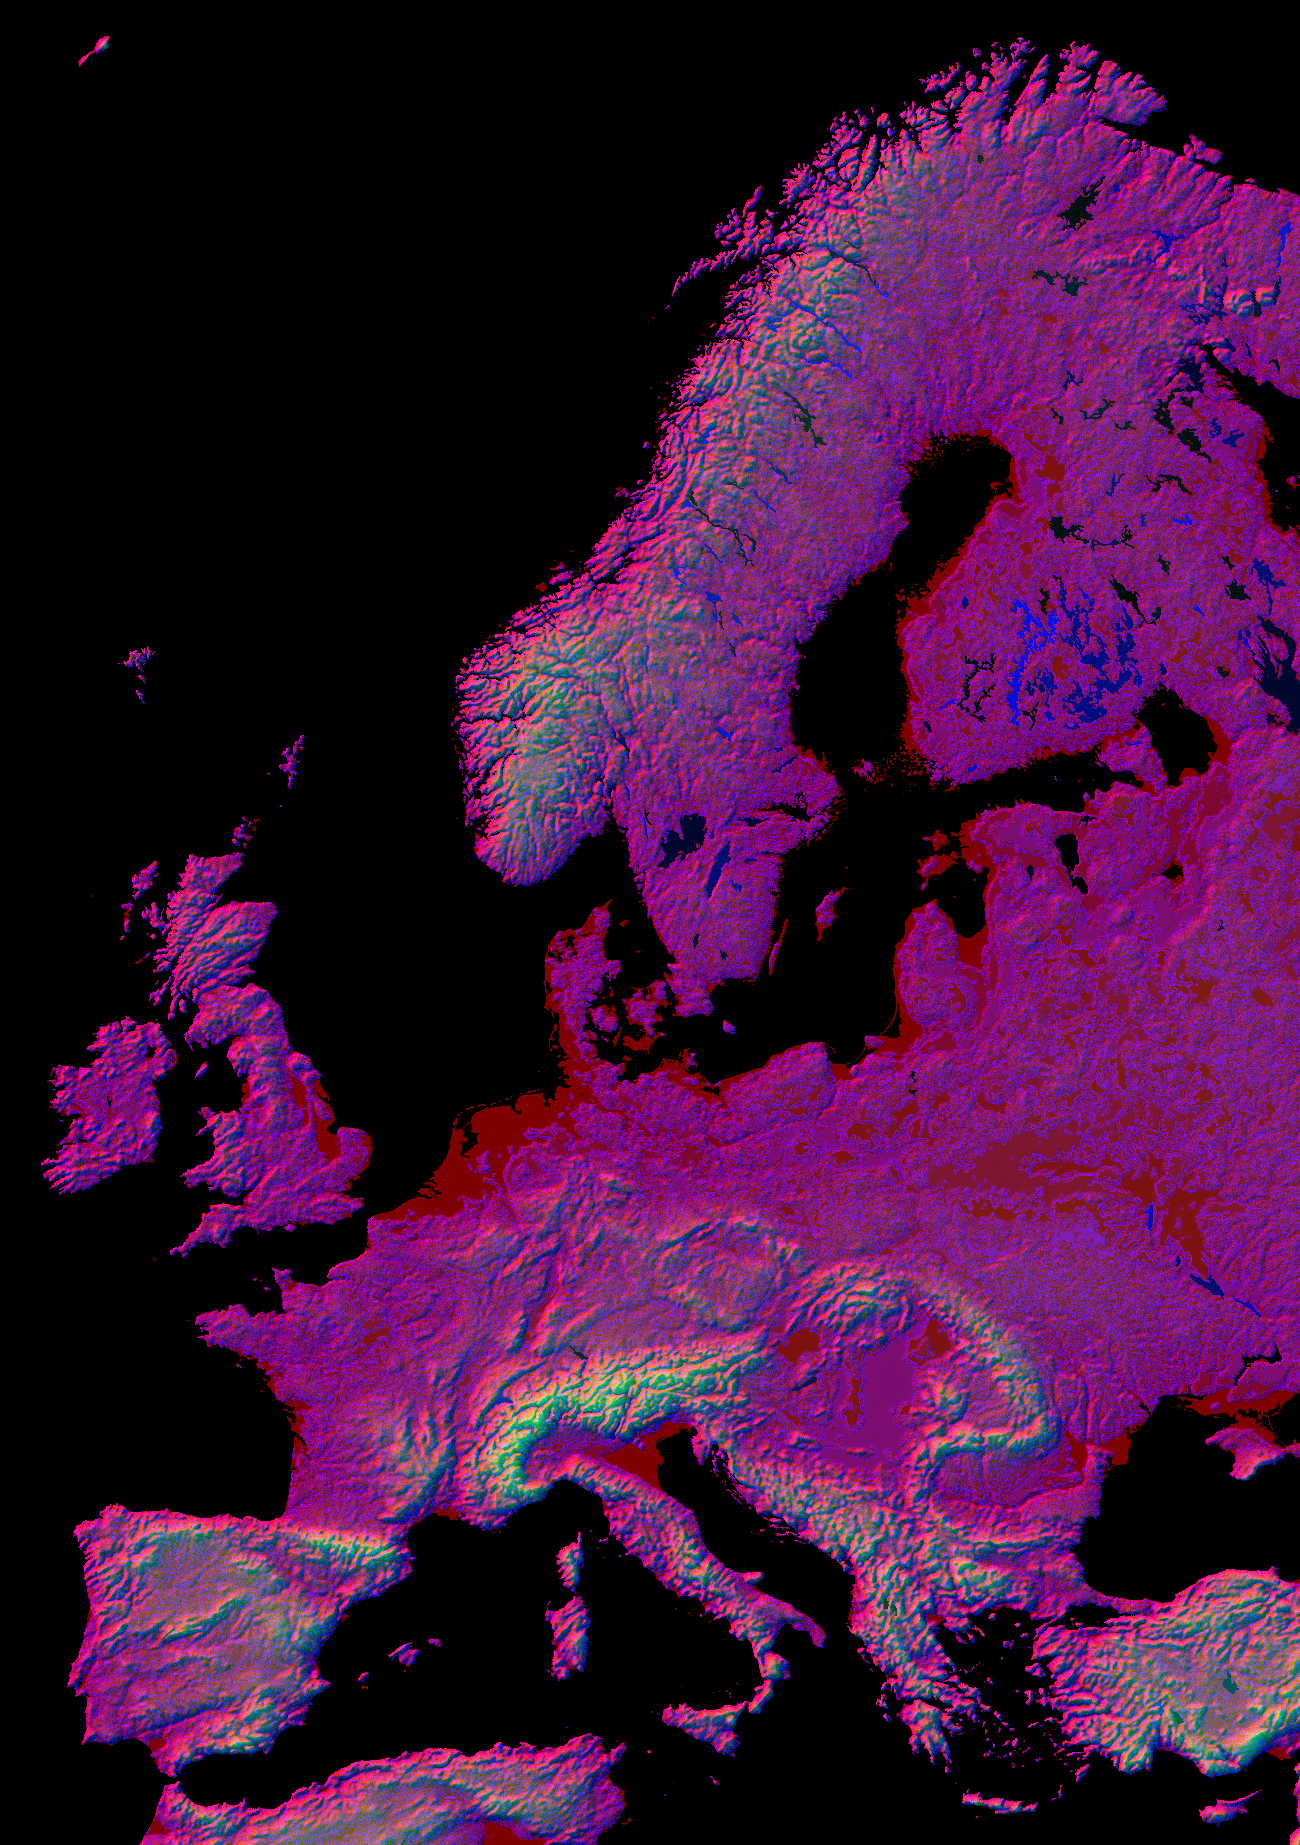
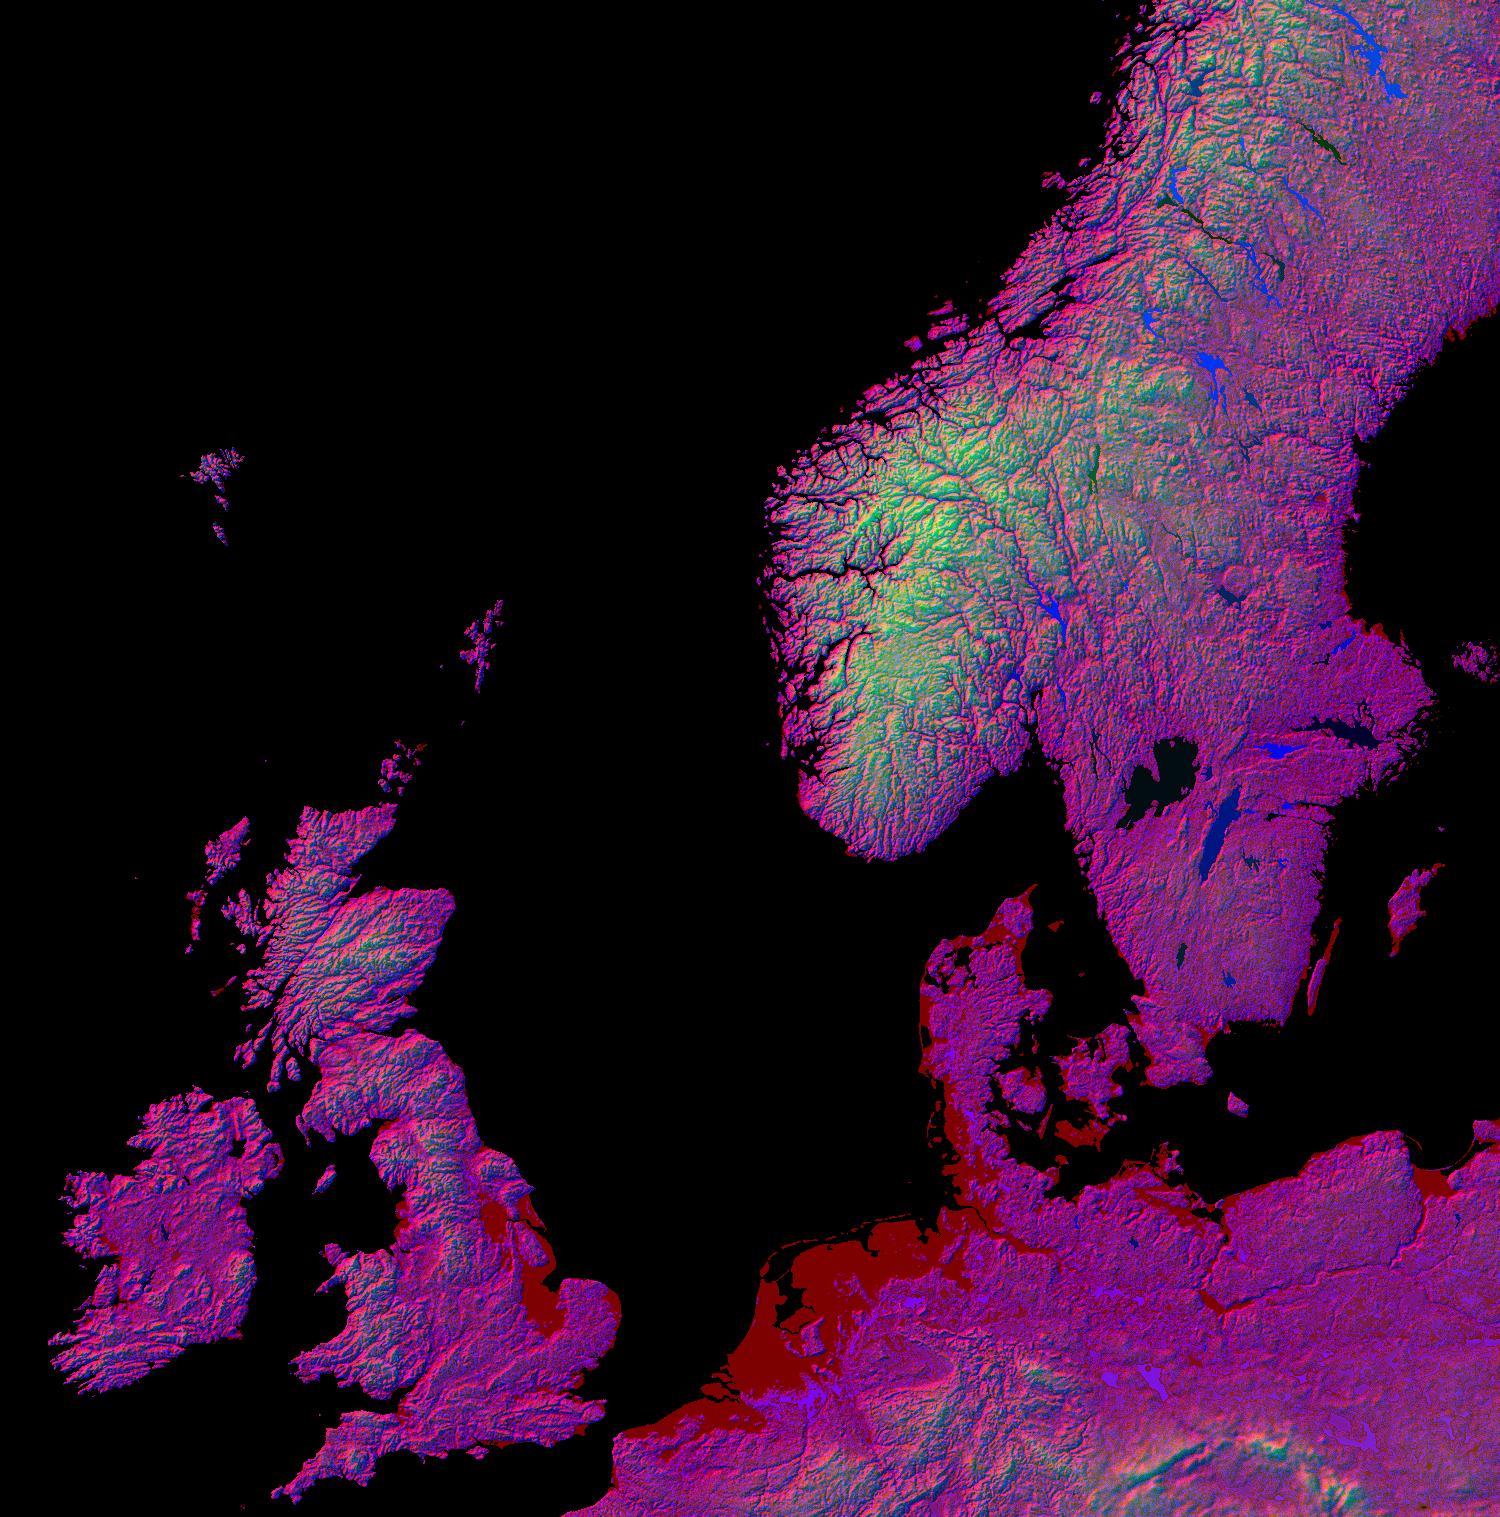
Listening Shrines: overview from Ireland to Sweden with finer relief
- overview cropped to north-west Europe (no Alps) and rebuilt from
  3-arc-second elevation data (de Ferranti / viewfinderpanoramas, via
  jaanga/terrain-de3), averaged down so fjords and ridges stay crisp
- recordings of one area share a marker that opens a short list
  (Ostfriesland · 4)
- slower, gentler descent into a shrine

Claude-Session: https://claude.ai/code/session_01AUtrK7ZNP4Cu7jf2w99u8u

diff --git a/assets/shrines.js b/assets/shrines.js
@@ -3,8 +3,8 @@ import { OrbitControls } from "three/addons/controls/OrbitControls.js";
 import { SHRINES } from "./shrines-data.js";
 
 /* ───────────── constants ───────────── */
-// Overview: Europe in Web Mercator (zoom-6 tile coordinates of the image corners).
-const EU = { world: 440, relief: 20, x0: 29.866666666666667, x1: 38.4, y0: 13.457790841581378, y1: 25.565983223523137 };
+// Overview: north-west Europe, Ireland to Sweden, in Web Mercator (zoom-7 tile coordinates of the image corners).
+const EU = { world: 440, relief: 15, n: 128, x0: 59.91111111111111, x1: 71.28888888888889, y0: 32.011827186209985, y1: 43.520931152007336, hmax: 2500, gamma: 0.72 };
 // Detail: the ground around one recording, built from one LIDAR scan.
 const DETAIL = { world: 240, relief: 16 };
 let WORLD = EU.world, DEPTH = EU.world;   // extent of the terrain currently shown
@@ -24,7 +24,7 @@ stage.appendChild(renderer.domElement);
 
 const scene = new THREE.Scene();
 const camera = new THREE.PerspectiveCamera(48, 1, 0.5, 2000);
-camera.position.set(0, innerWidth < 720 ? 1000 : 430, innerWidth < 720 ? 1150 : 520);
+camera.position.set(0, innerWidth < 720 ? 900 : 300, innerWidth < 720 ? 780 : 400);
 
 const controls = new OrbitControls(camera, renderer.domElement);
 controls.enableDamping = true;
@@ -201,13 +201,13 @@ function useView(c) {
 
 // latitude / longitude ↔ position on the overview
 const geoToWorld = (lat, lon) => {
-  const tx = (lon + 180) / 360 * 64;
-  const ty = (1 - Math.asinh(Math.tan(lat * Math.PI / 180)) / Math.PI) / 2 * 64;
+  const tx = (lon + 180) / 360 * EU.n;
+  const ty = (1 - Math.asinh(Math.tan(lat * Math.PI / 180)) / Math.PI) / 2 * EU.n;
   return [((tx - EU.x0) / (EU.x1 - EU.x0) - 0.5) * eu.W, ((ty - EU.y0) / (EU.y1 - EU.y0) - 0.5) * eu.D];
 };
 const worldToLonLat = (x, z) => {
   const tx = EU.x0 + (x / eu.W + 0.5) * (EU.x1 - EU.x0), ty = EU.y0 + (z / eu.D + 0.5) * (EU.y1 - EU.y0);
-  return [tx / 64 * 360 - 180, Math.atan(Math.sinh(Math.PI * (1 - 2 * ty / 64))) * 180 / Math.PI];
+  return [tx / EU.n * 360 - 180, Math.atan(Math.sinh(Math.PI * (1 - 2 * ty / EU.n))) * 180 / Math.PI];
 };
 
 /* ───────────── shrines ───────────── */
@@ -224,60 +224,90 @@ function ringLine(x, z, r, hAt) {
   return new THREE.Line(new THREE.BufferGeometry().setFromPoints(pts), lineMat);
 }
 
+// Recordings of one area share a marker on the overview; it opens a short list.
+const markers = [];   // { el, top }
+const detMark = document.createElement("div");
+detMark.className = "shrine active off";
+detMark.innerHTML = `<span class="shrine-mark" aria-hidden="true"></span><span class="shrine-label"></span>`;
+
 function buildShrines() {
   const list = $("#index-list");
   const bases = SHRINES.map((s) => {
     const [x, z] = geoToWorld(s.geo[0], s.geo[1]);
     return new THREE.Vector3(x, eu.heightAt(x, z), z);
   });
-  const tops = bases.map((b) => b.clone().setY(b.y + 16));
-  // recordings that lie close together on the scale of Europe: fan their markers out
-  const done = new Set();
-  bases.forEach((b, i) => {
-    if (done.has(i)) return;
-    const g = [i];
-    bases.forEach((c, j) => { if (j > i && !done.has(j) && b.distanceTo(c) < 14) g.push(j); });
-    if (g.length < 2) return;
-    const c = new THREE.Vector3();
-    g.forEach((k) => c.add(bases[k]));
-    c.divideScalar(g.length);
-    g.forEach((k, n) => { done.add(k); tops[k].set(c.x + (n - (g.length - 1) / 2) * 12, c.y + 15 + (n % 2) * 9, c.z); });
-  });
+  const areas = new Map();
+  SHRINES.forEach((s, i) => { const k = s.area || s.id; areas.set(k, [...(areas.get(k) || []), i]); });
 
   SHRINES.forEach((s, idx) => {
-    const base = bases[idx], top = tops[idx];
-    euGroup.add(new THREE.Line(new THREE.BufferGeometry().setFromPoints([base, top]), lineMat));
-    euGroup.add(ringLine(base.x, base.z, 1.6, eu.heightAt));
-
-    const btn = document.createElement("button");
-    btn.className = "shrine";
-    btn.type = "button";
-    btn.innerHTML = `<span class="shrine-mark" aria-hidden="true"></span><span class="shrine-label"><b>${s.id}</b> ${s.name}</span>`;
-    btn.setAttribute("aria-label", `${s.id} ${s.name}, open shrine`);
-    btn.addEventListener("click", () => openShrine(idx));
-    shrineLayer.appendChild(btn);
-
     const li = document.createElement("li");
     li.innerHTML = `<button type="button"><span>${s.id}</span>${s.name}</button>`;
     li.querySelector("button").addEventListener("click", () => openShrine(idx));
     list.appendChild(li);
-
-    shrineObjs.push({ s, top, base, btn, li });
+    shrineObjs.push({ s, base: bases[idx], li, el: null });
   });
+
+  for (const [area, members] of areas) {
+    const base = new THREE.Vector3();
+    members.forEach((i) => base.add(bases[i]));
+    base.divideScalar(members.length);
+    base.y = eu.heightAt(base.x, base.z);
+    const top = base.clone().setY(base.y + 16);
+    euGroup.add(new THREE.Line(new THREE.BufferGeometry().setFromPoints([base, top]), lineMat));
+    euGroup.add(ringLine(base.x, base.z, members.length > 1 ? 2.6 : 1.6, eu.heightAt));
+
+    const el = document.createElement("div");
+    el.className = "shrine";
+    if (members.length === 1) {
+      const s = SHRINES[members[0]];
+      el.innerHTML = `<button type="button" class="shrine-btn" aria-label="${s.id} ${s.name}, open shrine"><span class="shrine-mark" aria-hidden="true"></span><span class="shrine-label"><b>${s.id}</b> ${s.name}</span></button>`;
+      el.querySelector("button").addEventListener("click", () => openShrine(members[0]));
+    } else {
+      el.classList.add("cluster");
+      el.innerHTML = `<button type="button" class="shrine-btn" aria-expanded="false" aria-label="${area}, ${members.length} shrines"><span class="shrine-mark" aria-hidden="true"></span><span class="shrine-label"><b>${area}</b> · ${members.length}</span></button><ul class="cluster-list"></ul>`;
+      const head = el.querySelector(".shrine-btn"), ul = el.querySelector("ul");
+      head.addEventListener("click", () => { const open = el.classList.toggle("open"); head.setAttribute("aria-expanded", open); });
+      members.forEach((i) => {
+        const s = SHRINES[i], item = document.createElement("li");
+        item.innerHTML = `<button type="button"><span>${s.id}</span>${s.name}</button>`;
+        item.querySelector("button").addEventListener("click", () => openShrine(i));
+        ul.appendChild(item);
+      });
+    }
+    shrineLayer.appendChild(el);
+    markers.push({ el, top });
+    members.forEach((i) => { shrineObjs[i].el = el; shrineObjs[i].base = base; });
+  }
+  shrineLayer.appendChild(detMark);
+  addEventListener("pointerdown", (e) => { for (const m of markers) if (!m.el.contains(e.target)) closeCluster(m.el); });
+}
+function closeCluster(el) {
+  if (!el.classList.contains("open")) return;
+  el.classList.remove("open");
+  el.querySelector(".shrine-btn").setAttribute("aria-expanded", "false");
+}
+function markActive(idx) {
+  for (const m of markers) m.el.classList.toggle("active", idx >= 0 && shrineObjs[idx].el === m.el);
+  shrineObjs.forEach((x, i) => x.li.classList.toggle("active", i === idx));
 }
 
 const tmp = new THREE.Vector3();
-function placeLabels() {
+function place(el, p, far) {
   const w = renderer.domElement.clientWidth, h = renderer.domElement.clientHeight;
-  shrineObjs.forEach((o, i) => {
-    const p = mode === "detail" ? (i === detIdx ? detTop : null) : o.top;
-    if (!p) { o.btn.classList.add("off"); return; }
-    tmp.copy(p).project(camera);
-    const vis = tmp.z < 1 && Math.abs(tmp.x) < 1.1 && Math.abs(tmp.y) < 1.1;
-    o.btn.style.transform = `translate(${((tmp.x + 1) / 2) * w}px, ${((1 - tmp.y) / 2) * h}px)`;
-    o.btn.classList.toggle("off", !vis);
-    o.btn.classList.toggle("far", mode === "europe" && camera.position.distanceTo(p) > 330);
-  });
+  tmp.copy(p).project(camera);
+  const vis = tmp.z < 1 && Math.abs(tmp.x) < 1.1 && Math.abs(tmp.y) < 1.1;
+  el.style.transform = `translate(${((tmp.x + 1) / 2) * w}px, ${((1 - tmp.y) / 2) * h}px)`;
+  el.classList.toggle("off", !vis);
+  el.classList.toggle("far", far);
+}
+function placeLabels() {
+  if (mode === "detail") {
+    for (const m of markers) m.el.classList.add("off");
+    if (detTop) place(detMark, detTop, false);
+    return;
+  }
+  detMark.classList.add("off");
+  for (const m of markers) place(m.el, m.top, false);
 }
 
 /* ───────────── camera flights ───────────── */
@@ -335,7 +365,7 @@ function showEurope() {
 
 // fade the stage out, run fn while it is dark, fade back in
 function throughDark(fn, delay = 0) {
-  const T = reduceMotion ? 0 : 720;
+  const T = reduceMotion ? 0 : 1150;
   setTimeout(() => {
     fadeEl.classList.add("on");
     setTimeout(() => fn(() => requestAnimationFrame(() => requestAnimationFrame(() => { fadeEl.classList.remove("on"); busy = false; }))), T);
@@ -352,7 +382,9 @@ function openShrine(idx) {
   const o = shrineObjs[idx];
   const s = o.s;
   current = idx; busy = true;
-  shrineObjs.forEach((x, i) => { x.btn.classList.toggle("active", i === idx); x.li.classList.toggle("active", i === idx); });
+  markActive(idx);
+  for (const m of markers) closeCluster(m.el);
+  detMark.querySelector(".shrine-label").innerHTML = `<b>${s.id}</b> ${s.name}`;
 
   // the detail terrain loads while the camera descends over Europe
   const img = new Image();
@@ -361,8 +393,8 @@ function openShrine(idx) {
   let delay = 0;
   if (mode === "europe") {
     euCam = { p: camera.position.clone(), t: controls.target.clone() };
-    flyTo(o.base, 46, 0.85, 2400);
-    delay = 1500;
+    flyTo(o.base, 46, 0.85, 3400);
+    delay = 2100;
   }
   throughDark((done) => ready.then((ok) => {
     if (ok) showDetail(idx, img);
@@ -398,7 +430,7 @@ function closePanel() {
   panel.classList.remove("open");
   document.body.classList.remove("has-panel", "listening");
   setTimeout(() => { if (!panel.classList.contains("open")) panel.hidden = true; }, 500);
-  shrineObjs.forEach((x) => { x.btn.classList.remove("active"); x.li.classList.remove("active"); });
+  markActive(-1);
   current = -1;
   if (mode === "detail") { busy = true; throughDark((done) => { showEurope(); done(); }); }
 }
@@ -690,7 +722,7 @@ function loop() {
     const [lon, lat] = worldToLonLat(t.x, t.z);
     hud.x.textContent = lon.toFixed(2) + "°";
     hud.y.textContent = lat.toFixed(2) + "°";
-    hud.z.textContent = (Math.pow(heightAt(t.x, t.z) / EU.relief, 1 / 0.72) * 4300).toFixed(0);
+    hud.z.textContent = (Math.pow(heightAt(t.x, t.z) / EU.relief, 1 / EU.gamma) * EU.hmax).toFixed(0);
   } else {
     hud.x.textContent = ((t.x + WORLD / 2) * 10).toFixed(0).padStart(4, "0");
     hud.y.textContent = ((DEPTH / 2 - t.z) * 10).toFixed(0).padStart(4, "0");
@@ -712,10 +744,10 @@ addEventListener("keydown", (e) => {
 const enter = $("#enter");
 const img = new Image();
 img.onload = () => {
-  eu = makeCloud(img, { world: EU.world, relief: EU.relief, keepLand: isSmall ? 0.8 : 0.62 });
+  eu = makeCloud(img, { world: EU.world, relief: EU.relief, keepLand: isSmall ? 0.9 : 0.86 });
   euGroup.add(eu.points);
   useView(eu);
-  controls.target.set(0, 0, 30);
+  controls.target.set(0, 0, 24);
   buildShrines();
   resize();
   document.body.classList.add("ready");

diff --git a/assets/shrines-data.js b/assets/shrines-data.js
@@ -1,4 +1,5 @@
 // Shrine catalogue. One entry per recording.
+// area: recordings with the same area share one marker on the overview.
 // geo: [latitude, longitude] of the recording; places the shrine on the overview of Europe.
 // The ground around each shrine is assets/terrain/<id in lower case>.png (e.g. s-01.png), built from a LIDAR scan.
 // Fields marked "~" are estimated from the original blog text; coordinates are approximate.
@@ -16,6 +17,7 @@ export const SHRINES = [
     wind: "calm",
     rig: "Nevaton MC59 omni · AB 55 cm · 90°",
     src: "https://res.cloudinary.com/dainslgf8/video/upload/v1757937528/250801_002_Skedbrosj%C3%B6n_edit_o9juns.mp3",
+    area: "Härjedalen",
     geo: [62.31, 12.38],
     synth: { wind: 0.15, water: 0.9, birds: 0.05, tone: 180 },
     prayer: [
@@ -36,6 +38,7 @@ export const SHRINES = [
     wind: "light breeze",
     rig: "Nevaton MC59 omni · baffled AB 33 cm · 45°",
     src: "https://res.cloudinary.com/dainslgf8/video/upload/v1761931151/250831_005_Stapeler_Moor_sehr_lebendig_Schwalben_Spatzen_Schafe_etc._qzmhnk.mp3",
+    area: "Ostfriesland",
     geo: [53.30, 7.77],
     synth: { wind: 0.5, water: 0.0, birds: 0.8, tone: 900 },
     prayer: [
@@ -56,6 +59,7 @@ export const SHRINES = [
     wind: "calm",
     rig: "Nevaton MC59 omni · baffled AB 35 cm · 90°",
     src: "https://res.cloudinary.com/dainslgf8/video/upload/v1748357450/250518_001_Maik%C3%A4fer_Abend_Reh_am_Teich_bearbeitet_wrnred.mp3",
+    area: "Ostfriesland",
     geo: [53.39, 7.99],
     synth: { wind: 0.1, water: 0.2, birds: 0.1, tone: 140, drone: 0.7 },
     prayer: [
@@ -76,6 +80,7 @@ export const SHRINES = [
     wind: "calm",
     rig: "Nevaton MC59 omni · AB 50 cm",
     src: "https://res.cloudinary.com/dainslgf8/video/upload/v1748213115/250501_003_Stapeler_Moor_Kuckuck_V%C3%B6gel_M%C3%BCckenschwarm_grcfkf.mp3",
+    area: "Ostfriesland",
     geo: [53.30, 7.76],
     synth: { wind: 0.2, water: 0.0, birds: 0.6, tone: 2400 },
     prayer: [
@@ -96,6 +101,7 @@ export const SHRINES = [
     wind: "3–4 Bft W",
     rig: "Nevaton MC59 wide cardioid · NOS 35 cm · 90°",
     src: "https://res.cloudinary.com/dainslgf8/video/upload/v1748211069/250329_002_Hopelser_Wald_lmbkap.mp3",
+    area: "Ostfriesland",
     geo: [53.42, 7.70],
     synth: { wind: 0.7, water: 0.0, birds: 0.5, tone: 1200, bells: 0.6 },
     prayer: [

diff --git a/assets/shrines.css b/assets/shrines.css
@@ -219,3 +219,20 @@ body.ready #boot-status { visibility: hidden; }
 }
 #back:hover, #back:focus-visible { color: var(--ink); border-color: var(--dim); }
 @media (prefers-reduced-motion: reduce) { #fade { transition: none; } }
+
+/* ── markers: one per area, a short list where several recordings share it ── */
+.shrine { display: block; }
+.shrine-btn { display: flex; align-items: center; gap: 10px; padding: 0; }
+.shrine.cluster .shrine-mark { width: 16px; height: 16px; box-shadow: 0 0 0 3px rgba(6, 8, 10, .6), 0 0 0 4px rgba(169, 219, 232, .45); }
+.shrine.cluster .shrine-mark::after { margin: 5px; }
+.cluster-list {
+  list-style: none; margin: 10px 0 0 24px; padding: 8px 12px; display: none; gap: 2px;
+  background: rgba(6, 8, 10, 0.82); border: 1px solid var(--line); backdrop-filter: blur(6px);
+}
+.shrine.cluster.open .cluster-list { display: grid; }
+.shrine.cluster.open { z-index: 2; }
+.cluster-list button { display: flex; gap: 14px; padding: 5px 0; font-size: var(--s-0); letter-spacing: 0.08em; color: var(--ink); white-space: nowrap; text-align: left; }
+.cluster-list button span { color: var(--dim); }
+.cluster-list button:hover, .cluster-list button:focus-visible { color: var(--ice); }
+.cluster-list button:hover span { color: var(--ice); }
+#fade { transition-duration: 1.1s; }
